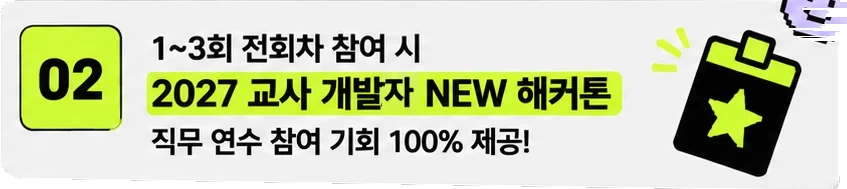
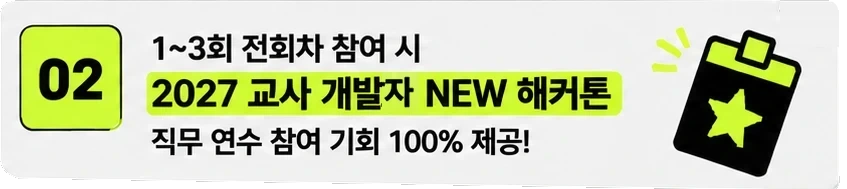
Keep the smiley sticker whole when event card 02 glows
The card 02 highlight piece cut through the purple smiley sticker, so the
lime glow traced a jagged line across it. The piece is now a clean card
corner, and the sticker sits above it as its own image.

Changed region(s): [[0.9209, 0.0, 1.0, 0.2381]]

diff --git a/poster-x/index.html b/poster-x/index.html
@@ -289,6 +289,8 @@ html:not(.wide) .label{left:25%}
 .evt .evt-hl{position:absolute;height:auto;opacity:0;transition:opacity .2s;
   filter:drop-shadow(0 0 1.5px var(--lime)) drop-shadow(0 0 1.5px var(--lime)) drop-shadow(0 0 10px rgba(204,255,0,.9))}
 .evt .evt-hl:hover{opacity:1}
+/* 02 카드 모서리의 스마일 스티커: 빛나는 카드보다 위에 얹어서 카드에 붙은 그대로 보이게 */
+.evt .evt-st{position:absolute;height:auto;pointer-events:none}
 /* 픽셀 색종이 */
 .evt-fx{position:absolute;inset:0;overflow:hidden;pointer-events:none;z-index:3}
 .evt-fx i{position:absolute;top:-20px;width:var(--s);height:var(--s);background:var(--c)}
@@ -438,6 +440,7 @@ document.body.insertAdjacentHTML('beforeend', `<div class="evt" role="dialog" ar
   <img class="evt-hl" src="../shared/event-card1.webp" alt="" style="left:44.856%;top:14.453%;width:50.598%">
   <img class="evt-hl" src="../shared/event-card2.webp" alt="" style="left:45.036%;top:38.470%;width:50.658%">
   <img class="evt-hl" src="../shared/event-card3.webp" alt="" style="left:45.036%;top:61.105%;width:50.658%">
+  <img class="evt-st" src="../shared/event-sticker.webp" alt="" style="left:91.268%;top:35.282%;width:5.263%">
   <span class="evt-shine"></span></div>
   <figcaption class="evt-rot">↻ 휴대폰을 가로로 돌리면 더 크게 보여요</figcaption></figure></div>`);
 const evt = $('.evt'), evtCard = $('.evt figure'), promEl = $('.prom');

diff --git a/site/index.html b/site/index.html
@@ -289,6 +289,8 @@ html:not(.wide) .label{left:25%}
 .evt .evt-hl{position:absolute;height:auto;opacity:0;transition:opacity .2s;
   filter:drop-shadow(0 0 1.5px var(--lime)) drop-shadow(0 0 1.5px var(--lime)) drop-shadow(0 0 10px rgba(204,255,0,.9))}
 .evt .evt-hl:hover{opacity:1}
+/* 02 카드 모서리의 스마일 스티커: 빛나는 카드보다 위에 얹어서 카드에 붙은 그대로 보이게 */
+.evt .evt-st{position:absolute;height:auto;pointer-events:none}
 /* 픽셀 색종이 */
 .evt-fx{position:absolute;inset:0;overflow:hidden;pointer-events:none;z-index:3}
 .evt-fx i{position:absolute;top:-20px;width:var(--s);height:var(--s);background:var(--c)}
@@ -438,6 +440,7 @@ document.body.insertAdjacentHTML('beforeend', `<div class="evt" role="dialog" ar
   <img class="evt-hl" src="shared/event-card1.webp" alt="" style="left:44.856%;top:14.453%;width:50.598%">
   <img class="evt-hl" src="shared/event-card2.webp" alt="" style="left:45.036%;top:38.470%;width:50.658%">
   <img class="evt-hl" src="shared/event-card3.webp" alt="" style="left:45.036%;top:61.105%;width:50.658%">
+  <img class="evt-st" src="shared/event-sticker.webp" alt="" style="left:91.268%;top:35.282%;width:5.263%">
   <span class="evt-shine"></span></div>
   <figcaption class="evt-rot">↻ 휴대폰을 가로로 돌리면 더 크게 보여요</figcaption></figure></div>`);
 const evt = $('.evt'), evtCard = $('.evt figure'), promEl = $('.prom');
